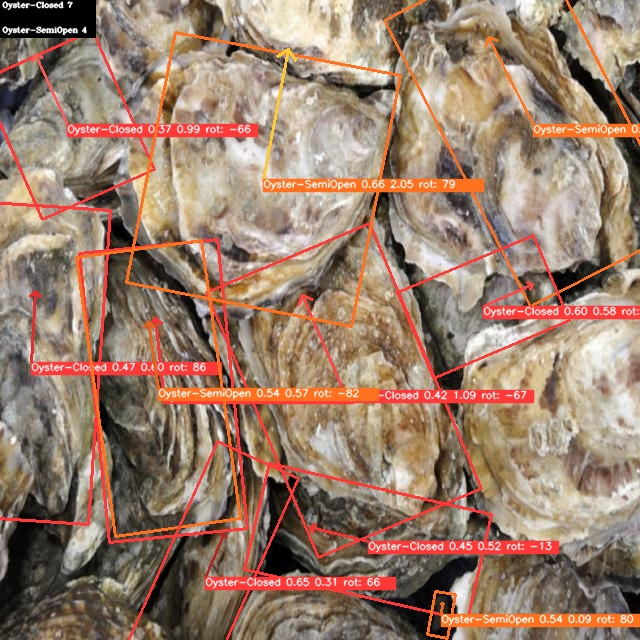
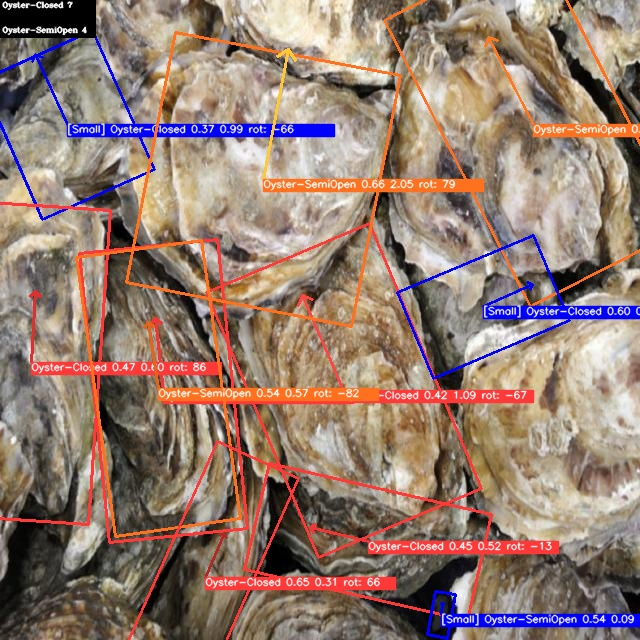
detect_small

diff --git a/detect_orin.py b/detect_orin.py
@@ -19,7 +19,6 @@ from pathlib import Path
 
 #For use in converting from radians to degrees
 import math
-import numpy as np
 
 import cv2
 import torch
@@ -66,7 +65,6 @@ def run(weights=ROOT / 'yolov5s.pt',  # model.pt path(s)
         hide_conf=False,  # hide confidences
         half=False,  # use FP16 half-precision inference
         dnn=False,  # use OpenCV DNN for ONNX inference
-        highlight_small=True,  # highlight small area detections with blue color
         ):
     source = str(source)
     save_img = not nosave and not source.endswith('.txt')  # save inference images
@@ -159,33 +157,12 @@ def run(weights=ROOT / 'yolov5s.pt',  # model.pt path(s)
                     n = (det[:, -1] == c).sum()  # detections per class
                     s += f"{n} {names[int(c)]}{'s' * (n > 1)}, "  # add to string  
 
-                # Calculate areas for small detection filtering
-                areas = []
-                for *poly, conf, cls in det:
-                    # Convert poly to numpy array for area calculation
-                    poly_np = torch.tensor(poly).cpu().numpy().reshape(-1, 2)
-                    # Calculate polygon area using shoelace formula
-                    area = 0.5 * abs(sum(poly_np[i,0] * poly_np[(i+1)%len(poly_np),1] - poly_np[(i+1)%len(poly_np),0] * poly_np[i,1] for i in range(len(poly_np))))
-                    areas.append(area)
-                
-                # Calculate area threshold (mean - std, or use percentile)
-                if len(areas) > 1:
-                    areas_tensor = torch.tensor(areas)
-                    area_mean = areas_tensor.mean().item()
-                    area_std = areas_tensor.std().item()
-                    area_threshold = max(area_mean - area_std, torch.quantile(areas_tensor, 0.3).item())
-                else:
-                    area_threshold = 0
-
                 # Write results
                 theta_index = 0
-                area_index = 0
                 theta_list.reverse()
                 for *poly, conf, cls in reversed(det):
                     theta_val = theta_list[theta_index]
-                    current_area = areas[-(area_index + 1)]  # Reverse order to match reversed det
                     theta_index += 1
-                    area_index += 1
                     #print('\n', math.degrees(theta_val))
                     if save_txt:  # Write to file
                         # xywh = (xyxy2xywh(torch.tensor(xyxy).view(1, 4)) / gn).view(-1).tolist()  # normalized xywh
@@ -197,16 +174,8 @@ def run(weights=ROOT / 'yolov5s.pt',  # model.pt path(s)
                     if save_img or save_crop or view_img:  # Add poly to image
                         c = int(cls)  # integer class
                         label = None if hide_labels else (names[c] if hide_conf else f'{names[c]} {conf:.2f}')
-                        
-                        # Determine color: blue for small areas, normal color for others
-                        if highlight_small and current_area < area_threshold and len(areas) > 1:
-                            box_color = (255, 0, 0)  # Blue color (BGR format)
-                            label = f'[Small] {label}' if label else '[Small]'
-                        else:
-                            box_color = colors(c, True)
-                        
                         # annotator.box_label(xyxy, label, color=colors(c, True))
-                        annotator.poly_label(poly, theta_val, label, color=box_color)
+                        annotator.poly_label(poly, theta_val, label, color=colors(c, True))
                         if save_crop: # Yolov5-obb doesn't support it yet
                             # save_one_box(xyxy, imc, file=save_dir / 'crops' / names[c] / f'{p.stem}.jpg', BGR=True)
                             pass 
@@ -294,7 +263,6 @@ def parse_opt():
     parser.add_argument('--hide-conf', default=False, action='store_true', help='hide confidences')
     parser.add_argument('--half', action='store_true', help='use FP16 half-precision inference')
     parser.add_argument('--dnn', action='store_true', help='use OpenCV DNN for ONNX inference')
-    parser.add_argument('--highlight-small', action='store_true', help='highlight small area detections with blue color')
     opt = parser.parse_args()
     opt.imgsz *= 2 if len(opt.imgsz) == 1 else 1  # expand
     print_args(FILE.stem, opt)

diff --git a/README.md b/README.md
@@ -94,4 +94,4 @@ For information on running either training or inference using this project pleas
   Contact: rudyi@susqu.edu
 ```
 
-python detect.py --weights weights/yolov5nOysters.pt --source /home/teai/gwf_file/REU-Oyster_Orientation/test.jpg --conf-thres 0.3 --device 0
+python detect.py --weights weights/yolov5nOysters.pt --source /home/teai/gwf_file/REU-Oyster_Orientation/test.jpg --conf-thres 0.3 --device 0 --highlight-small
